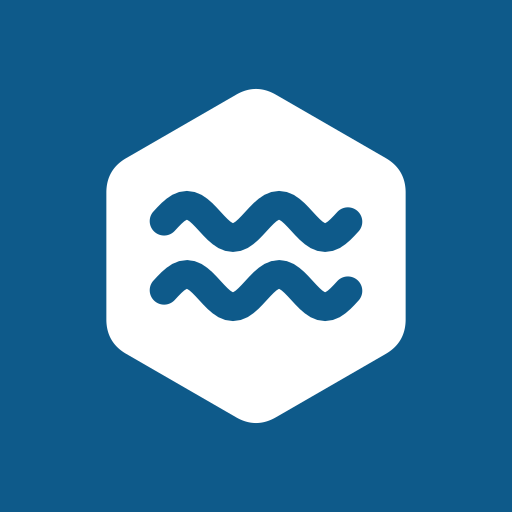
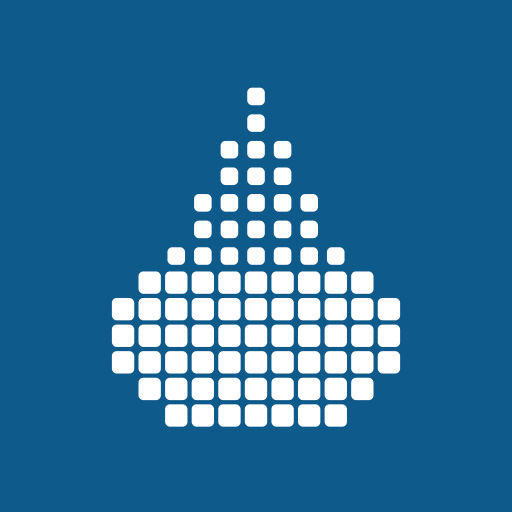
feat(web): pictogramme en goutte de pixels satellite

Changed region(s): [[0.1875, 0.1562, 0.8125, 0.8438]]

diff --git a/web/scripts/generer-logo.py b/web/scripts/generer-logo.py
@@ -1,7 +1,7 @@
 """Génère les fichiers du logo MbënnScan (SVG, PNG, favicon, icônes d'app).
 
-Pictogramme : un hexagone (rappel des mailles de calcul) contenant une vague d'eau.
-Logotype : Inter Semibold, « Mbënn » en encre, « Scan » en bleu primaire (cahier des charges, section Identité).
+Pictogramme : une goutte faite de pixels d'image satellite ; les pixels pleins du bas sont l'eau détectée.
+Logotype : Inter Semibold, « Mbënn » en encre, « Scan » en bleu primaire.
 
 Usage : pip install fonttools cairosvg pillow && python web/scripts/generer-logo.py [chemin/Inter-SemiBold.otf]
 """
@@ -17,49 +17,39 @@ from fontTools.pens.transformPen import TransformPen
 from fontTools.ttLib import TTFont
 from PIL import Image
 
-ENCRE, PRIMAIRE, BLANC = "#101828", "#0E5A8A", "#FFFFFF"
+ENCRE, PRIMAIRE, CLAIR, BLANC = "#101828", "#0E5A8A", "#7FA9C6", "#FFFFFF"
 POLICE = sys.argv[1] if len(sys.argv) > 1 else "/usr/share/fonts/opentype/inter/Inter-SemiBold.otf"
 WEB = Path(__file__).resolve().parents[1]
 BRAND, APP = WEB / "public" / "brand", WEB / "src" / "app"
 
 
-def hexagone(cx=32, cy=32, r=30, arrondi=4):
-    """Hexagone pointe en haut, coins arrondis, en chemin SVG."""
-    pts = [(cx + r * math.cos(math.radians(a)), cy + r * math.sin(math.radians(a))) for a in range(-90, 270, 60)]
-    d = []
-    for i, (x, y) in enumerate(pts):
-        (px, py), (nx, ny) = pts[i - 1], pts[(i + 1) % 6]
-        k = arrondi / r
-        a = (x + (px - x) * k, y + (py - y) * k)
-        b = (x + (nx - x) * k, y + (ny - y) * k)
-        d.append(f"{'M' if i == 0 else 'L'}{a[0]:.2f} {a[1]:.2f}Q{x:.2f} {y:.2f} {b[0]:.2f} {b[1]:.2f}")
-    return "".join(d) + "Z"
+# Demi-largeur de chaque rangée de pixels (en cases, autour de la colonne centrale) et rangée où commence l'eau.
+GOUTTES = {
+    "normal": ([0, 0, 1, 1, 2, 2, 3, 4, 5, 5, 5, 4, 3], 7),
+    "petit": ([0, 1, 1, 2, 2, 2, 1], 4),
+}
 
 
-def vague(y, x0=16, x1=48, amp=2.8, ep=5, n=48):
-    """Vague sur deux périodes, contournée en forme pleine (trait de largeur ep, bouts ronds)."""
-    pts = []
-    for i in range(n + 1):
-        t = i / n
-        a = 4 * math.pi * t
-        dy = -amp * 4 * math.pi / (x1 - x0) * math.cos(a)  # pente dy/dx
-        nx, ny = -dy / math.hypot(1, dy), 1 / math.hypot(1, dy)
-        pts.append((x0 + (x1 - x0) * t, y - amp * math.sin(a), nx, ny))
-    h = ep / 2
-    haut = [f"{x + nx * -h:.2f} {yy + ny * -h:.2f}" for x, yy, nx, ny in pts]
-    bas = [f"{x + nx * h:.2f} {yy + ny * h:.2f}" for x, yy, nx, ny in reversed(pts)]
-    return f"M{haut[0]}L{'L'.join(haut[1:])}A{h} {h} 0 0 1 {bas[0]}L{'L'.join(bas[1:])}A{h} {h} 0 0 1 {haut[0]}Z"
+def picto(couleur, sec=None, taille="normal"):
+    """Pictogramme 64x64 : une goutte faite de pixels d'image satellite.
 
-
-VAGUES = {"normal": [vague(26), vague(38)], "petit": [vague(32, 13, 51, 4.5, 9)]}
-
-
-def picto(couleur, vagues=BLANC, taille="normal", decoupe=False):
-    """Pictogramme 64x64. decoupe=True : vagues évidées (monochrome, une seule couleur)."""
-    v = "".join(VAGUES[taille])
-    if decoupe:
-        return f'<path d="{hexagone()}{v}" fill="{couleur}" fill-rule="evenodd"/>'
-    return f'<path d="{hexagone()}" fill="{couleur}"/><path d="{v}" fill="{vagues}"/>'
+    Les pixels du bas, pleins, sont l'eau détectée ; ceux du haut, plus petits, le reste de l'image.
+    sec : couleur des pixels du haut (par défaut la même, pour les versions monochromes).
+    """
+    rangees, eau = GOUTTES[taille]
+    n = len(rangees)
+    petit = taille == "petit"
+    c = 8 if petit else 60 / n  # en petit, cases de 2 px pile à 16 px, sans espace
+    haut = (64 - n * c) / 2
+    rects = []
+    for r, demi in enumerate(rangees):
+        for k in range(-demi, demi + 1):
+            mouille = r >= eau
+            m = 0 if petit else c * (0.08 if mouille else 0.17)
+            x, y = 32 + (k - 0.5) * c + m, haut + r * c + m
+            fill = "" if mouille or not sec else f' fill="{sec}"'
+            rects.append(f'<rect x="{x:.2f}" y="{y:.2f}" width="{c - 2 * m:.2f}" height="{c - 2 * m:.2f}" rx="{0 if petit else c * 0.18:.2f}"{fill}/>')
+    return f'<g fill="{couleur}">{"".join(rects)}</g>'
 
 
 def texte(police, mot, x, base, taille):
@@ -95,9 +85,9 @@ def png(src, chemin, largeur):
 def main():
     police = TTFont(POLICE)
     pictos = {
-        "couleur": picto(PRIMAIRE),
-        "noir": picto(ENCRE, decoupe=True),
-        "blanc": picto(BLANC, decoupe=True),
+        "couleur": picto(PRIMAIRE, CLAIR),
+        "noir": picto(ENCRE),
+        "blanc": picto(BLANC),
     }
     logos = {
         "couleur": logo(police, ENCRE, PRIMAIRE, pictos["couleur"]),
@@ -116,8 +106,8 @@ def main():
             w = int(src.split('width="')[1].split('"')[0])
             png(src, BRAND / "png" / f"logo-{nom}-{h}.png", w * h // 64)
 
-    # Petites tailles : une seule vague épaisse, monochrome primaire.
-    favicon = svg(picto(PRIMAIRE, taille="petit", decoupe=True))
+    # Petites tailles : moins de pixels, calés sur la grille de 16 px.
+    favicon = svg(picto(PRIMAIRE, CLAIR, taille="petit"))
     (APP / "icon.svg").write_text(favicon)
     images = [Image.open(io.BytesIO(cairosvg.svg2png(bytestring=favicon.encode(), output_width=t))) for t in (16, 32, 48)]
     images[-1].save(APP / "favicon.ico", sizes=[(16, 16), (32, 32), (48, 48)], append_images=images[:-1])
@@ -125,7 +115,7 @@ def main():
     # Icônes d'app : pictogramme blanc sur carré primaire, avec marge (zone sûre des icônes masquables).
     def icone(marge):
         s = 64 * (1 - 2 * marge)
-        return svg(f'<rect width="64" height="64" fill="{PRIMAIRE}"/><g transform="translate({64 * marge} {64 * marge}) scale({s / 64})">{picto(BLANC, decoupe=True)}</g>')
+        return svg(f'<rect width="64" height="64" fill="{PRIMAIRE}"/><g transform="translate({64 * marge} {64 * marge}) scale({s / 64})">{picto(BLANC)}</g>')
 
     png(icone(0.14), APP / "apple-icon.png", 180)
     png(icone(0.14), BRAND / "icone-192.png", 192)

diff --git a/web/public/brand/README.md b/web/public/brand/README.md
@@ -1,6 +1,6 @@
 # Logo MbënnScan
 
-Pictogramme : un hexagone (rappel des mailles de calcul) contenant une vague d'eau. Logotype en Inter Semibold, « Mbënn » en encre, « Scan » en bleu primaire. Les SVG sont vectorisés : ils ne dépendent d'aucune police.
+Pictogramme : une goutte faite de pixels d'image satellite. Les pixels pleins du bas sont l'eau détectée, les pixels plus petits du haut le reste de l'image : MbënnScan mesure l'eau pixel par pixel, depuis l'espace. Logotype en Inter Semibold, « Mbënn » en encre, « Scan » en bleu primaire. Les SVG sont vectorisés : ils ne dépendent d'aucune police.
 
 | Fichier                                                     | Usage                                                                               |
 | ----------------------------------------------------------- | ----------------------------------------------------------------------------------- |
@@ -11,9 +11,9 @@ Pictogramme : un hexagone (rappel des mailles de calcul) contenant une vague d'e
 | `png/`                                                      | Exports PNG transparents : pictogramme 64 à 1024 px, logo 64, 128 et 256 px de haut |
 | `icone-192.png`, `icone-512.png`, `icone-masquable-512.png` | Icônes d'app (manifeste)                                                            |
 
-Favicon (`src/app/favicon.ico`, `src/app/icon.svg`) : version monochrome simplifiée, une seule vague, lisible à 16 px. Icône iOS : `src/app/apple-icon.png`.
+Favicon (`src/app/favicon.ico`, `src/app/icon.svg`) : version simplifiée, des pixels de 2 px calés sur la grille de 16 px, sans espace entre eux. Icône iOS : `src/app/apple-icon.png`.
 
-Couleurs : encre `#101828`, primaire `#0E5A8A`, blanc. Le bleu de l'eau `#2E90FA` reste réservé à la carte.
+Couleurs : encre `#101828`, primaire `#0E5A8A`, bleu clair `#7FA9C6` (pixels du haut, version couleur seulement), blanc. Les versions noir et blanc n'utilisent qu'une couleur : la taille des pixels distingue l'eau. Le bleu de l'eau `#2E90FA` reste réservé à la carte.
 
 Règles : ne pas déformer, recolorer ni ajouter d'effet ; laisser autour du logo une marge au moins égale à la moitié de la hauteur du pictogramme ; sous 24 px, utiliser le pictogramme seul.
 
